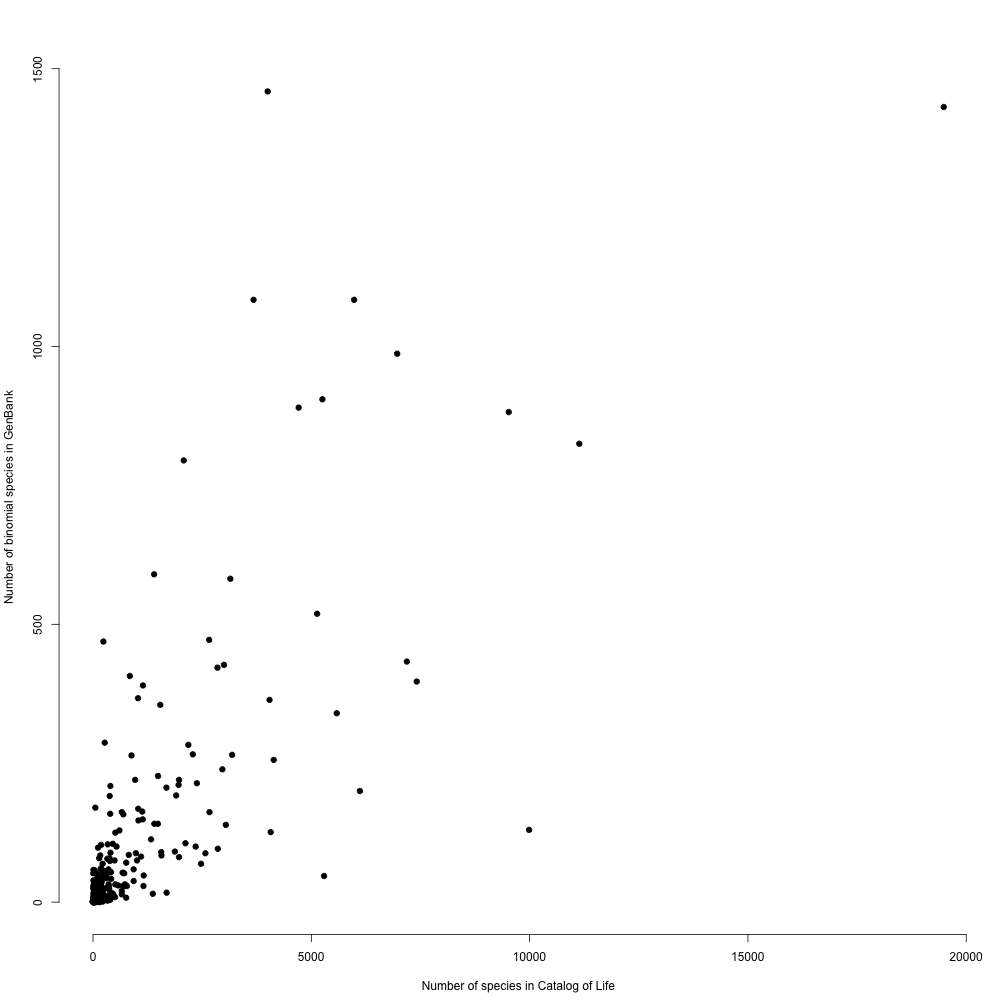
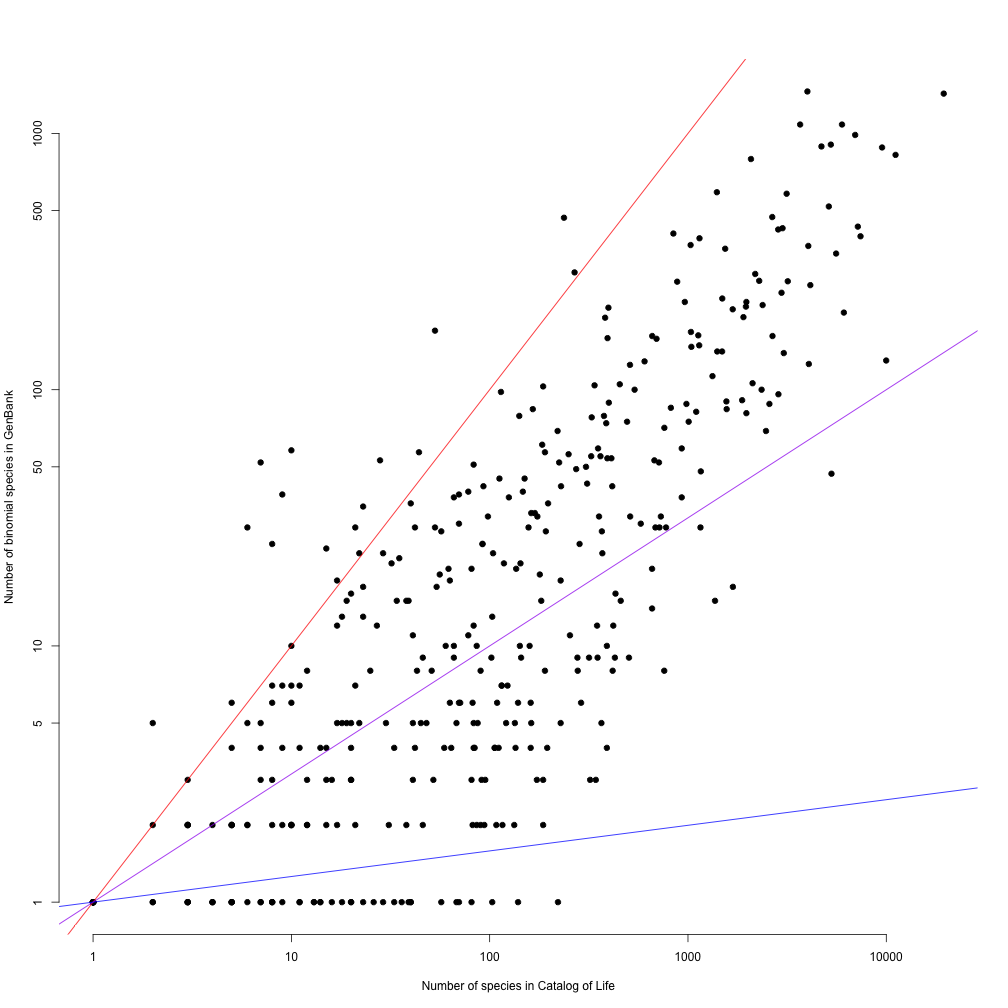
plot of gb vs col

diff --git a/docs/index.md b/docs/index.md
@@ -31,6 +31,8 @@ The code for these analyses is all in https://github.com/bomeara/hexapods. The R
 
 ![plot of chunk plotgbvscol](figure/plotgbvscol-1.png)
 
+Lines show 100%, 50%, 10% of Catalog of Life species in GenBank (note that this is based on species counts in familes, not 1:1 matching).
+
 ## Funding
 
 The core grant for this was NSF [FuturePhy grant ID]. Participation and tools was also supported by grants [GN], [Phylotastic], [more]
